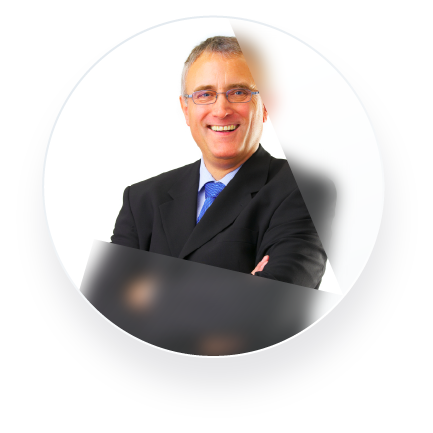
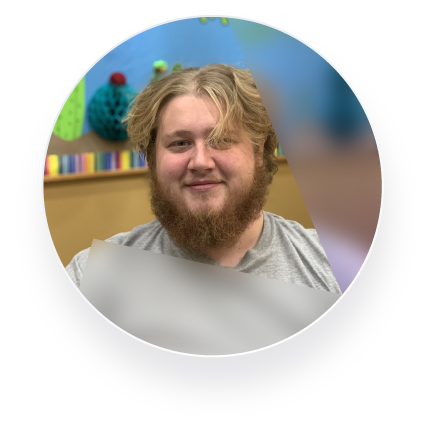
chore: updated employee pictures, added new team member, added missing links to buttons

diff --git a/pages/index.vue b/pages/index.vue
@@ -517,7 +517,7 @@
                       provider="netlify"
                     />
                     <a
-                      href="#"
+                      href="https://satellite.one/"
                       target="_blank"
                       rel="noreferrer"
                       class="absolute flex items-center justify-center w-full h-full text-sm font-bold text-center text-white transition duration-300 ease-linear outline-none  rounded-3xl bg-cool-green md:text-base hover:bg-spandex-green focus:bg-spandex-green"
@@ -684,7 +684,7 @@
                     </a>
                   </div>
                   <a
-                    href="#"
+                    href="https://dev.satellite.one/"
                     target="_blank"
                     rel="noreferrer"
                     class="flex items-center justify-center w-48 h-10 ml-6 text-sm font-bold text-center transition duration-300 ease-linear bg-white shadow-lg outline-none  md:w-52 md:h-12 mt-14 rounded-3xl text-retro-blue md:text-base hover:bg-extraordinary-abundance-of-tinge focus:bg-extraordinary-abundance-of-tinge"
@@ -1326,6 +1326,22 @@ export default {
             {
               key: 'linkedin',
               link: 'https://www.linkedin.com/in/phillip-wisniewski-9472aa224/',
+            },
+          ],
+        },
+        {
+          key: 'sara',
+          image: '/images/team-sara.png',
+          name: 'Sara Tavares',
+          occupation: this.$t('section_team.team.sara_occupation'),
+          socials: [
+            {
+              key: 'linkedin',
+              link: 'https://www.linkedin.com/in/sara-t-3545a0126/',
+            },
+            {
+              key: 'github',
+              link: 'https://github.com/stavares843',
             },
           ],
         },
